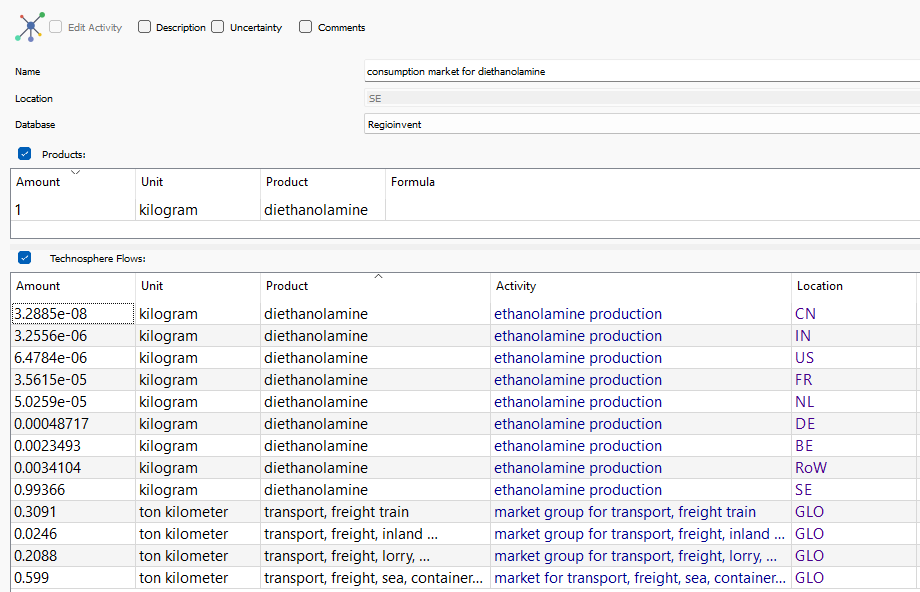
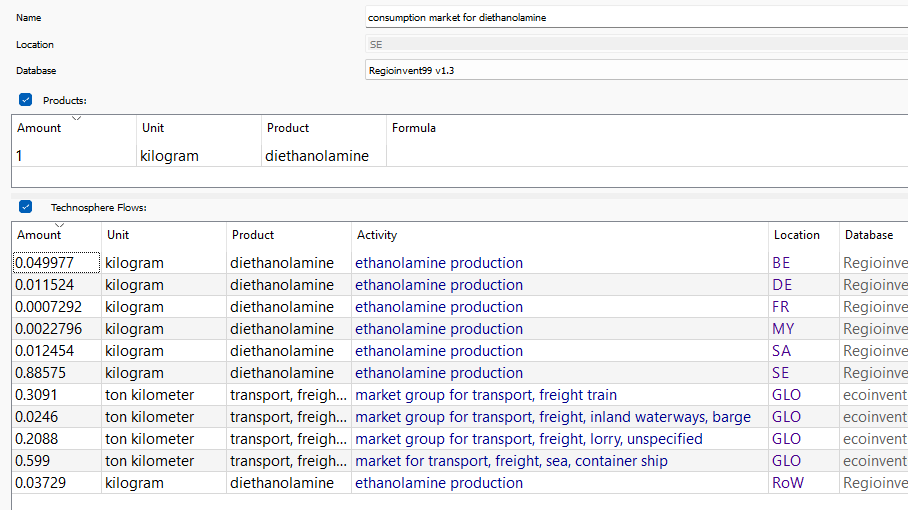
Update README and methodology for v1.3.

Changed region(s): [[0.0, 0.0294, 1.0, 1.0], [0.4009, 0.0882, 1.0, 0.1765]]

diff --git a/Methodology.md b/Methodology.md
@@ -10,18 +10,17 @@ The methodology is divided into multiple sections:
 4. [Selection of commodities to regionalize](#selection-of-commodities-to-regionalize)
 5. [Selection of countries for regionalization](#selection-of-countries-for-regionalization)
 6. [Regionalizing - creating national production process](#regionalizing---creating-national-production-process)
-7. [Regionalizing - creating global export market processes](#regionalizing---creating-global-production-market-processes)
+7. [Regionalizing - creating global production market processes](#regionalizing---creating-global-production-market-processes)
 8. [Regionalizing - creating national consumption market processes](#regionalizing---creating-national-consumption-market-processes)
 9. [Modeling transportation in the created markets](#modeling-transportation-in-the-created-markets)
 10. [How to deal with multiple technologies of production](#how-to-deal-with-multiple-technologies-of-production)
 11. [Dealing with yearly fluctuation of trade data](#dealing-with-yearly-fluctuation-of-trade-data)
 12. [Spatialization of elementary flows](#spatialization-of-elementary-flows)
 13. [Regionalized life cycle impact assessment methods](#regionalized-life-cycle-impact-assessment-methods)
-14. [The water regionalization issue with ecoinvent](#the-water-regionalization-issue-with-ecoinvent)
-15. [Connecting ecoinvent processes to UN COMTRADE commodities](#connecting-ecoinvent-processes-to-un-comtrade-commodities)
-16. [Connecting ecoinvent geographies to UN COMTRADE geographies](#connecting-ecoinvent-geographies-to-un-comtrade-geographies)
-17. [Connecting EXIOBASE sectors to UN COMTRADE commodities](#connecting-exiobase-sectors-to-un-comtrade-commodities)
-18. [Connecting EXIOBASE geographies to UN COMTRADE geographies](#connecting-exiobase-geographies-to-un-comtrade-geographies)
+14. [Connecting ecoinvent processes to UN COMTRADE commodities](#connecting-ecoinvent-processes-to-un-comtrade-commodities)
+15. [Connecting ecoinvent geographies to UN COMTRADE geographies](#connecting-ecoinvent-geographies-to-un-comtrade-geographies)
+16. [Connecting EXIOBASE sectors to UN COMTRADE commodities](#connecting-exiobase-sectors-to-un-comtrade-commodities)
+17. [Connecting EXIOBASE geographies to UN COMTRADE geographies](#connecting-exiobase-geographies-to-un-comtrade-geographies)
  
 
 ### Selection of the trade database
@@ -35,7 +34,7 @@ However, the UN COMTRADE database has inconsistencies. Imports and exports are n
 Furthermore, there are a few missing data points for some years/commodities/countries combinations, as well as blatant
 reporting mistakes. In the first versions of regionvent (< v1.2) we tried to correct these inconsistencies ourselves. 
 Unfortunately it is very time-consuming and requires a lot of expertise which we lack. Therefore, from the v1.2 of 
-regioinvent, we rely on the BACI database (https://www.cepii.fr/CEPII/en/bdd_modele/bdd_modele_item.asp?id=37), 
+regioinvent onward, we rely on the BACI database (https://www.cepii.fr/CEPII/en/bdd_modele/bdd_modele_item.asp?id=37), 
 which is an adaptation of the UN COMTRADE database where the aforementioned inconsistencies are already corrected.
 
 ### Estimation of production data
@@ -122,15 +121,32 @@ the 5 biggest exporters of bananas, e.g., Ecuador, etc.
 
 ### Selection of commodities to regionalize
 In regioinvent v1.3, there was a switch in philosophy. In previous versions, the focus was put on internationally-traded
-commodities, simply because they were the reason behind the introduction of consumption markets. However it left a lot
+commodities, simply because they were the reason behind the introduction of consumption markets. However, it left a lot
 of processes non-regionalized, which did not make much sense sometimes. The production of HFC-152a was regionalized, but
 the hot-rolling of steel was not, and regioinvent was thus still relying on RoW or GLO processes for transformation (for
-example). So in v1.3, now all processes are regionalized with three exceptions:
-- aggregated processes (S)
-- completely empty processes (like Recycled content Cut-off stuff) because this increases the size of the database for 
-no reason
-- virtually empty processes, i.e., with no technosphere inputs and a few biosphere inputs, but the latter are not inputs
-needing spatialization, so regionalizing those is irrelevant
+example). So in v1.3, we now regionalize  non-internationally traded commodities as well. However, regionalizing
+them all would explode the size of the resulting database. We therefore onlt regionalized the most relevant of them.
+
+How do we determine which non-internationally traded commodities are relevant or not? For example, is "tap water" more
+relevant than "waste cement, hydrated"? To decide, we look at the contributions of these commodities among all the 
+processes of ecoinvent. You can follow the steps we describe below on the "Choosing which process to regionalize.ipynb"
+jupyter notebook. Then, if "tap water" contributes more to impact categories than "waste cement, hydrated", then tap water
+will be considered relevant (and thus will be regionalized) while waste cement, hydrated will be considered irrelevant
+(and thus won't be regionalized).
+
+We do the contribution analyses on all processes of ecoinvent, except market processes as the contribution of any commodity
+within their market will simply be 100%. That's around 13,000 and so around 13,000 contribution analyses to run. Then, 
+we need to decide how to weight the contributions on different impact categories. Maybe tap water is relevant for climate
+change, but that waste cement, hydrated is relevant for ionizing radiations. We rely on IW+ and the scientific weighting
+that is used to go from damage categories to the two area of protection (in DALY and in PDF.m2.yr). In the 13,000 contribution
+analyses we then only take the commodities which contribute on average (that is, across the 13,000 processes) to at least
+0.3%. 0.3% sounds random as a number and it kind of is. 1% would lead to barely nothing being regionalized for 
+non-internationally traded commodities, while 0.1% would lead to too many processes to regionalize. 0.3% leads to a
+manageable amount of extra regionalization to do (~75 commodities depending on the ei version). These commodities are 
+listed in the relevant_non_traded_products.json files which is then used by the code. If a user wants the maximum 
+possible regionalization they can input the whole list of commodities of ecoinvent in this json file. But be warned.
+You will most likely require a super computer to run that. Or at the very least a good 32GB of RAM with a good 
+CPU/SSD drive for it not to take forever to run.
 
 ### Selection of countries for regionalization
 Ideally, the commodities could be regionalized for all countries in the world. Practically speaking though, there
@@ -164,15 +180,16 @@ that will be represented, while consumption data is used to determine for which 
 created.
 
 So this is for internationally-traded commodities where we can base our geographies-to-cover on trade. What about 
-non-internationally-traded commodities (and transformation activities). Well, instead of regionalizing for all possible 
-countries/regions (that's 390 total countries/regions btw, across ecoinvent and regioinvent), we simply check who is
-using these processes, and more specifically, which location. So for my hot-rolling of steel, I will check which processes
-call "hot-rolling of steel", and create regionalized copies for these geographies. Identifying these geographies is not
-a straight forward process, as non-intrenationally traded commodities can also require other such commodities. We 
-therefore ran multiple iterations to catch all possible geographies needed, at the highest cut-off possible (0.99) and
-store these geographies_needed in a json file to be able to call them efficiently.
+non-internationally-traded commodities (and transformation activities). For them, we first thought of regionalizing
+for the geographies that were required given the cutoff selected. If no process in the database is gonna use "chemical
+factory, organics" in Andorra, why create it? The problem is that determine this list of used commodities/geography
+combination is actually extremely tricky to get, because everytime you add more geographies, these new geographies 
+require new commodities/geography combination to be created as well. And it basically snowballs. So instead of doing that
+we just directly regionalize for all the geographies used within regioinvent (which can be found in the 
+geographies_of_regioinvent.json files).
 
-
+_The paragraph on the effect of the cutoff below was written for regioinvent v1.2.2 and has not been updated for
+regioinvent v1.3 yet_ <br>
 The effect of the cutoff selection on the results was estimated between the cutoff: 99%, 90% and 75%. You can see these
 effects applied to the IW+ v2.1 LCIA method. The numbers represent the median relative difference between all processes
 that are covered in all three versions of regioinvent (i.e., regioinvent with 99%, 90% and 75% cutoff). Overall, if we
@@ -209,19 +226,20 @@ for "land tenure, arable land, measured as carbon net primary productivity, annu
 example), then the code will select a random available geography to be the base for the copy.
 
 ### Regionalizing - creating global production market processes
-The export data from the UN COMTRADE database is combined with domestic production estimates to form a total production
+The export data from the BACI database is combined with domestic production estimates to form a total production
 data. Then it is simply extracted for each commodity and used. Transportation is also added (see 
 [Transportation section](#modeling-transportation-in-the-created-markets)).
 
 ### Regionalizing - creating national consumption market processes
-The import data from the UN COMTRADE as well as the estimated domestic consumption data are summed up together to obtain
+The import data from the BACI as well as the estimated domestic consumption data are summed up together to obtain
 consumption data per country. Then this data is simply used to generate consumption markets. Transportation is also 
 added (see [Transportation section](#modeling-transportation-in-the-created-markets)).
 
 ### Modeling transportation in the created markets
 In the global production market and various national consumption markets created by regioinvent, transportation modes must be
-added. Regioinvent v1.3 only simply copies the transportation distribution of the original market (the one used for copy)
-and adds it to the new market. This simple copy and paste creates inconsistencies by adding transportation modes that are
+added. Regioinvent v1.3 only simply copies the transportation distribution of the ecoinvent markets providing the commodity, 
+adds it to the new market for regioinvent (either consumption market or production market), and averages it. 
+This simple copy and paste creates inconsistencies by adding transportation modes that are
 unadapted to the actual transportation that would occur between two countries. For example, there are processes of 
 transportation by tanker for imports from Germany to Switzerland, which obviously makes no sense. In later version of 
 regioinvent, we intend to regionalize at the very least the transportation distances and modes depending on the origin
@@ -235,7 +253,7 @@ Some commodities can be produced through various means. For instance, 1-butanol 
 "hydroformylation of propylene" but also through "synthetic fuel production, from coal, high temperature Fisher-Tropsch 
 operation". Production and trade data however, are only provided for the commodity overall. How then can we distribute
 each national market shares to the different technologies? Well in regioinvent, we calculate the distribution of the 
-technologies within the global production market (or its closest substitute if there is no GLO market, e.g, RoW) and
+technologies within the global production market of ecoinvent (or its closest substitute if there is no GLO market, e.g, RoW) and
 then simply reapply that technology share, to the national share. So, more concretely, if the hydroformylation of 
 propylene represents 80% of the production of 1-butanol overall, and that Canada represents 10% of global production 
 shares for 1-butanol, then regioinvent creates a Canadian process for both hydroformylation and Fisher-Tropsch, and adds
@@ -244,7 +262,16 @@ What does this choice entails? This assumption does not respect the actual techn
 Fisher-Tropsch from coal is probably not a technology that is used in Europe to produce 1-butanol for example, but is used
 in South Africa. But with the assumption made, we consider that Europe and South Africa produce 1-butanol with both 
 technologies. Refining these choices entails a deep expertise of technologies deployed throughout the world, and for many
-different commodities. However, this is not an expertise that is available to regioinvent.
+different commodities. However, this is not an expertise that is available to regioinvent's team.
+
+For non-internationally traded commodities, the shares of the ecoinvent markets are also simply copied and re-applied. 
+The difference with the consumption and production markets, is that we need to create another "market" for the distribution
+of these technologies producing non-internationally traded commodities (think of tap water, which can be produced from 
+"conventional treatment" or "direct filtration treatment"). Because just copying the ecoinvent markets and keeping their
+names would be confusing (you would have consumption markets, production markets and just "markets" and it's not clear
+what they are) we rename them. What markets are in ecoinvent are actually technology mixes. So we decided to create
+"technology mix for xxxx" processes to represent these distributions. So when you see a process "technology mix for" 
+think of the markets of ecoinvent.
 
 ### Dealing with yearly fluctuation of trade data
 To not be subject to the whims of the trade market changing constantly, which would affect the robustness from year to 
@@ -279,23 +306,8 @@ characterized and the results will mean nothing. You therefore cannot use regioi
 of brightway2. To be clear, there won't be any error and everything will work, but for impact categories with spatialized
 elementary flows, the results will be wrong.
 
-Regioinvent v1.2.2 operates with IMPACT World+ v2.1,  ReCiPe 2016 v1.03 (H) and EF 3.1. Users are welcome to contribute by 
+Regioinvent v1.3 operates with IMPACT World+ v2.1,  ReCiPe 2016 v1.03 (H) and EF 3.1. Users are welcome to contribute by 
 matching with other impact methods.
-
-### The water regionalization issue with ecoinvent
-The simple rule followed by regioinvent to spatialize elementary flows (i.e, just assigning the region of the process)
-creates imbalances for the water-related impact category (e.g., AWARE). This issues can also be found in regionalizations
-performed by Pré consultants (SimaPro) and GreenDelta (OpenLCA). What is the issue exactly? To explain it, we can take a
-look at the ecoinvent process for the production of apples in Chile (CL). In this process, there are releases of water, 
-both in air (evaporated water) and in water (rundown) as elementary flows and there is also an input of water that comes
-from the "market for irrigation" of the RoW region, so from the technosphere. After spatialization of elementary flows,
-we would thus have Chilean water coming out and RoW water coming in. This creates an imbalance as Chilean water might be 
-more scarce than the global average (for the RoW region). In reality, the water from irrigation likely is also Chilean 
-water. It's just that there is no Chilean irrigation process in the ecoinvent database. <br>
-So the solution is actually quite simple. Let's create those missing processes to ensure the coherence. Regioinvent 
-does just that. It focuses on 7 identified technosphere water flows where similar issues arise: ['irrigation', 
-'water, deionised', 'water, ultrapure', 'water, decarbonised', 'water, completely softened', 'tap water', 
-'wastewater, average', 'wastewater, unpolluted']. This creates more than 13,000 processes.
 
 ### Connecting ecoinvent processes to UN COMTRADE commodities
 This step is basically a giant mapping effort to be done between the names of ecoinvent commodities selected for 

diff --git a/README.md b/README.md
@@ -12,10 +12,12 @@ and connects these spatialized elementary flows to regionalized life cycle impac
 three LCIA regionalized methods implemented: IMPACT World+ v2.1 / EF 3.1 / ReCiPe 2016 v1.03 (H).
 
 ## Showcase
-To showcase what ```Regioinvent``` does, let's illustrate on an example: the production of diethanolamine in Sweden. 
-The production of diethanolamine in ecoinvent is also available for RER and RoW.
+To showcase what ```Regioinvent``` does, let's illustrate on a random example: the production of diethanolamine in Sweden.
 
-Screenshot below shows the starting point of this example: the diethanolamine production process for Europe.
+Within ecoinvent, the production of diethanolamine is only available for Europe (RER) and Rest-of-the-World (RoW).
+
+Screenshot below shows the diethanolamine production process for Europe (values are hidden for ecoinvent licensing reason).
+Notice how there is absolutely nothing adapted for the Swedish context, which is normal since it's for Europe as a whole.
 
 <img src="images/diethanolamine_rer_production.png" width="600"/>
 
@@ -23,34 +25,42 @@ Screenshot below shows the starting point of this example: the diethanolamine pr
 After running ```Regioinvent``` three types of processes are created.
 1. National production processes <br>
 
-Below you can see the example for the Swedish production but the code also created such production processes for many countries.
+National production processes for many countries and all traded commodities of ecoinvent are created automatically.
+Below you can see the example for the Swedish production. Now you can see that basically everything adapted to the 
+Swedish context, energy vectors (electricity/heat), consumables (ammonia) and even capital goods (chemical factory).
 
 <img src="images/diethanolamine_swedish_prod.png" width="600"/>
 
 2. National consumption markets <br>
 
-Below you can see the example for the Swedish consumption market but the code also created such consumption markets for many countries.
+National consumption markets representing the average origin of a commodity purchased in a given country, based on
+import and domestic production data are created. Below you can see the example for the Swedish consumption market of 
+ammonia that is used in the production of diethanolamine.
+We can see that Sweden is importing ammonia mainly from Russia (~73%), from the Netherlands (~7%) and from Algeria (~5%).
+Of course these production processes of ammonia in these respective countries were created along all the other national 
+production processes.
 
-<img src="images/diethanolamine_swedish_consumption.png" width="600"/>
+<img src="images/ammonia_swedish_consumption_market.png" width="600"/>
 
-3. A global export market <br>
+3. A global production market <br>
 
-The global export market shows the biggest exporters of the commodity worldwide.
+Global production markets, representing the global production shares for each commodity, are also created. Below you can
+see the one for the production of diethanolamine which, according to our data, is mostly produced in Saudi Arabia (~55%),
+Malaysia (~10%), Belgium (~10%), Germany (~8%) and Sweden (~5%).
 
 
-<img src="images/diethanolamine_global_export_market.png" width="600"/>
+<img src="images/diethanolamine_global_production_market.png" width="600"/>
 
 
 ## ```Regioinvent``` in your LCAs
 Use the three types of processes generated with ```Regioinvent``` as follows:
 - If you know where the production of your commodity occurs, select the corresponding national production process. Either
 for the location exactly, or, if unavailable, the RoW version which is an aggregate of all the countries not being in the
-biggest producers.
+biggest producers. (Of course add some transportation on top of these processes to model their distribution)
 - If you don't know where the production of your commodity occurs, BUT you know where it was bought, rely on the consumption
 markets. These describe where the commodity should come from on average, given the trade of the region.
 - If you don't know anything about the process, you can either use the RoW or GLO process of ecoinvent, or rely on the 
-global export process of ```Regioinvent``` as a proxy. Note however that it is an export market. It does not include the
-domestic production in the shares of that market.
+global production process of ```Regioinvent```.
 
 ## Get started
 
@@ -62,9 +72,10 @@ You will need a few things to get started:
 - Download the BACI database that was already extracted.
 You can download it from [here](https://doi.org/10.5281/zenodo.11583814)
 - Install ```brightway2``` and have a brightway2 project with either ecoinvent3.9.1 cut-off or ecoinvent3.10.1 cut-off
+- Install the other needed modules within the requirements.txt file
 
-Note that regioinvent currently only supports the ecoinvent 3.9.1/3.10.1 cut-off version and operates solely on brightway2 (NOT 
-brightway2.5).
+Note that regioinvent currently only supports the ecoinvent 3.9.1/3.10.1 cut-off version and operates solely on 
+brightway2 (NOT brightway2.5).
 
 You can then follow the steps presented in the [demo.ipynb](https://github.com/CIRAIG/Regioinvent/tree/master/doc/demo.ipynb) 
 Jupyter notebook.
@@ -74,8 +85,11 @@ Required python version: 3.11
 ## How to use after running the code?
 Once the regionalized version of ecoinvent is created on Python, you can export it to brightway2. You will then be able to
 perform your LCAs either through brightway2 or its GUI activity-browser as you would with the regular ecoinvent database. <br> 
-Do note that calculations are longer with ```Regioinvent``` (~5 to 10 minutes calculation for the first run). <br>
-There are currently no support for other LCA software, as SimaPro and openLCA are not able to support the size of the database.
+Do note that calculations can be longer with ```Regioinvent``` depending on the cutoff you select. WIth a cutoff of 0.75,
+calculations times are similar to with normal ecoinvent (a few seconds). With a cutoff of 0.99, the size increases 
+dramatically, and so does the calculation time (from 5 to 15 minutes depending on your machine). <br>
+There are currently no support for other LCA software, as SimaPro and openLCA are not able to support the size of the
+regioinvent database.
 
 ## Overview of the methodology
 
